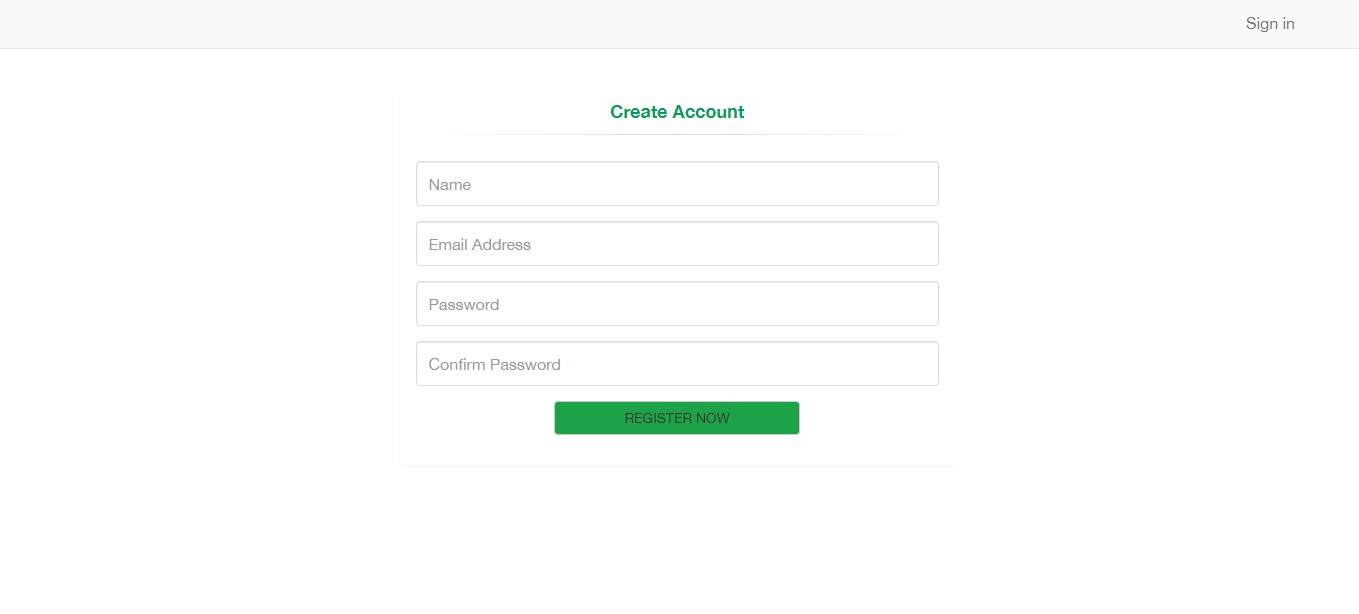
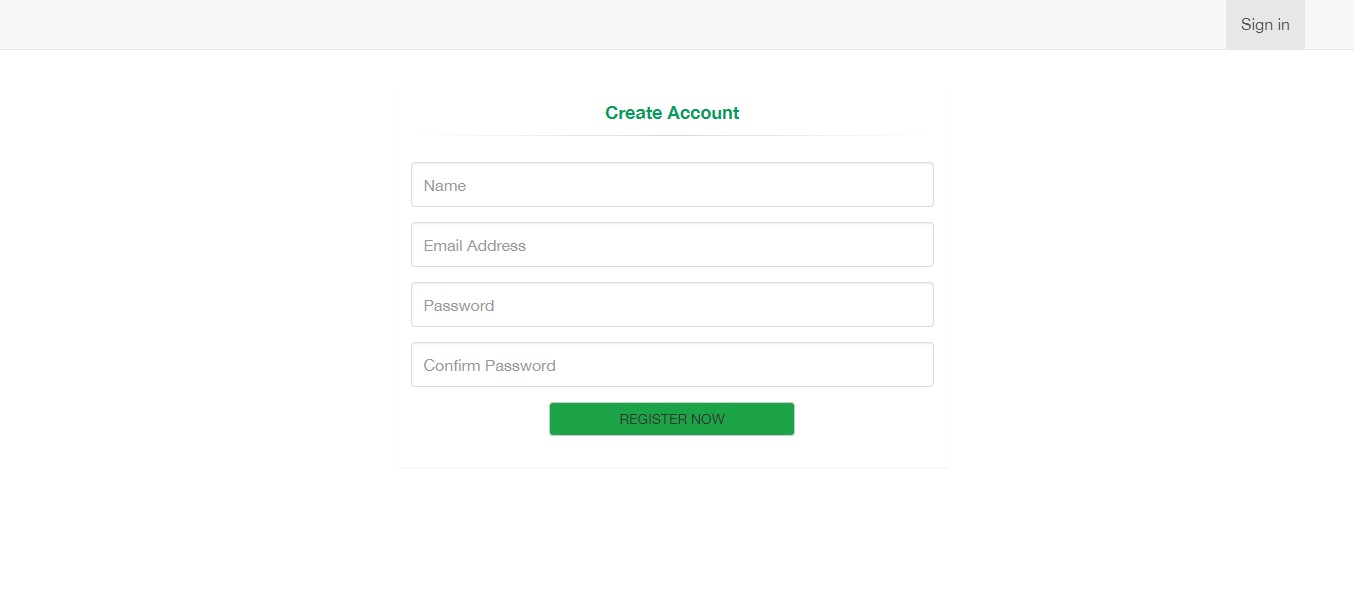
Register modification

diff --git a/client/src/Register.js b/client/src/Register.js
@@ -20,7 +20,7 @@ class Register extends Component {
 				<div class="col-md-6 col-md-offset-3">
 					<div class="panel panel-login">
 						<div class="panel-heading">
-							<a class="active">Registered Users</a>
+							<a class="active">Create Account</a>
 						<hr/>
 						</div>
 						<div class="panel-body">

diff --git a/client/src/index.js b/client/src/index.js
@@ -6,5 +6,5 @@ import Register from './Register';
 import HomePage from './HomePage';
 import registerServiceWorker from './registerServiceWorker';
 
-ReactDOM.render(<HomePage />, document.getElementById('root'));
+ReactDOM.render(<Register />, document.getElementById('root'));
 registerServiceWorker();
